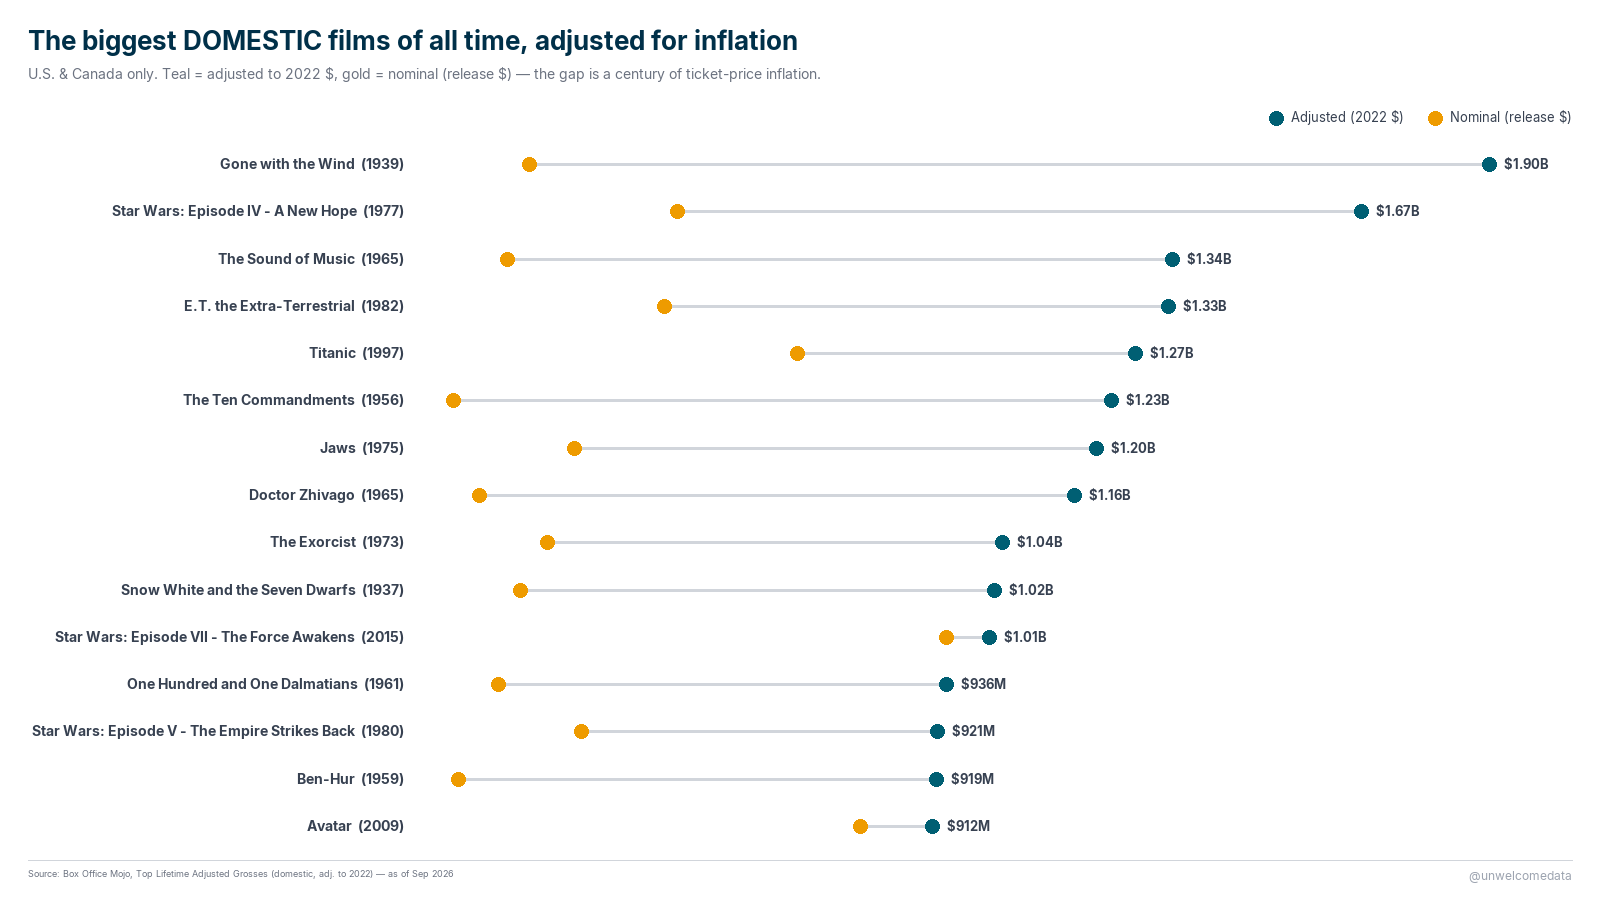
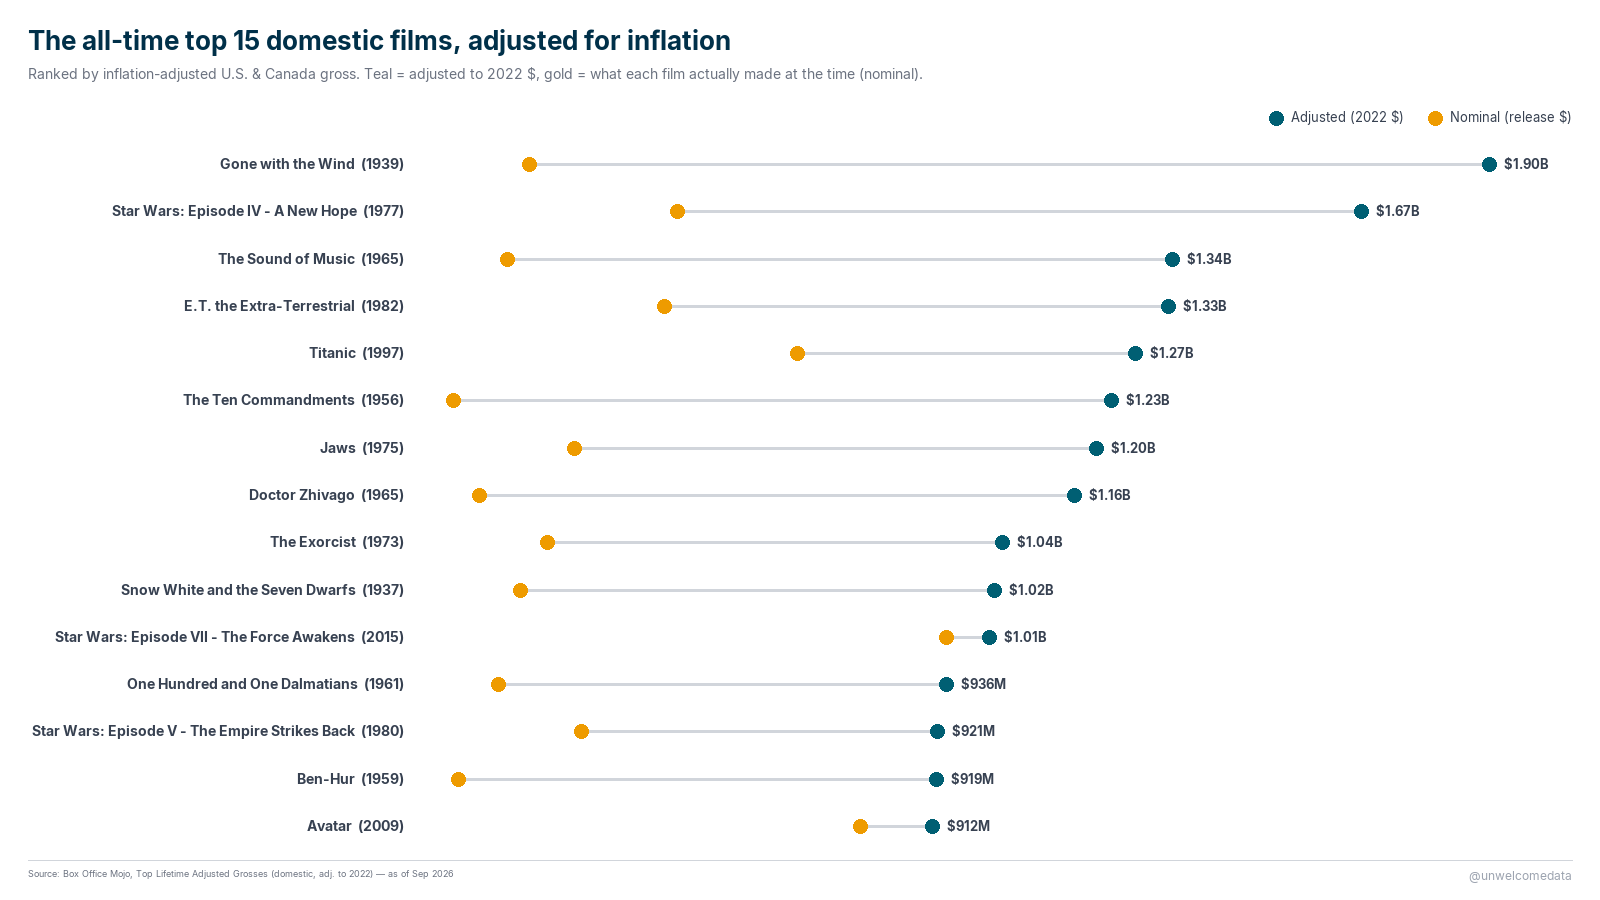
fix: retitle chart A to reflect it's the adjusted-gross ranking, not a 'gap' ranking
Old subtitle ('the gap is a century of inflation') implied the chart was sorted by
the nominal-vs-adjusted gap. It's actually ranked by inflation-adjusted domestic
gross (top 15 all-time). Retitled 'The all-time top 15 domestic films, adjusted
for inflation'; subtitle now says ranked-by-adjusted and frames nominal as context.

Changed region(s): [[0.0, 0.0311, 0.5625, 0.0933]]

diff --git a/scripts/_build_notebooks.py b/scripts/_build_notebooks.py
@@ -453,8 +453,8 @@ viz = [
        "gross (teal). Domestic (U.S. & Canada) only."),
     code("display(lollipop(",
          "    films, category_col='label', value_col='adjusted_gross', value2_col='nominal_gross',",
-         "    value_fmt=money, title='Adjusted vs nominal domestic gross - top 15',",
-         "    subtitle='Teal = adjusted (2022 $), gold = nominal (release $)',",
+         "    value_fmt=money, title='All-time top 15 domestic films, adjusted for inflation',",
+         "    subtitle='Ranked by adjusted (2022 $) US & Canada gross. Teal = adjusted, gold = nominal (release $).',",
          "    dot_color='#005F73', dot2_color='#EE9B00',",
          "    value_label='Adjusted', value2_label='Nominal', img_width=img_w, img_height=img_h,",
          "))"),
@@ -595,8 +595,8 @@ viz_social = [
          "    FROM films_adjusted ORDER BY adjusted_gross DESC LIMIT 15''').df()",
          "dom['label'] = dom['title'] + '  (' + dom['release_year'].astype(str) + ')'",
          "img1 = lollipop(dom, category_col='label', value_col='adjusted_gross', value2_col='nominal_gross',",
-         "    value_fmt=money, title='The biggest DOMESTIC films of all time, adjusted for inflation',",
-         "    subtitle='U.S. & Canada only. Teal = adjusted to 2022 $, gold = nominal (release $) — the gap is a century of ticket-price inflation.',",
+         "    value_fmt=money, title='The all-time top 15 domestic films, adjusted for inflation',",
+         "    subtitle='Ranked by inflation-adjusted U.S. & Canada gross. Teal = adjusted to 2022 $, gold = what each film actually made at the time (nominal).',",
          "    source='Box Office Mojo, Top Lifetime Adjusted Grosses (domestic, adj. to 2022) — as of Sep 2026',",
          "    dot_color='#005F73', dot2_color='#EE9B00',",
          "    value_label='Adjusted (2022 $)', value2_label='Nominal (release $)',",

diff --git a/scripts/make_charts.py b/scripts/make_charts.py
@@ -65,8 +65,8 @@ def main() -> None:
     img1 = lollipop(
         dom, category_col="label", value_col="adjusted_gross", value2_col="nominal_gross",
         value_fmt=money_bil,
-        title="The biggest DOMESTIC films of all time, adjusted for inflation",
-        subtitle="U.S. & Canada only. Teal = adjusted to 2022 $, gold = nominal (release $) — the gap is a century of ticket-price inflation.",
+        title="The all-time top 15 domestic films, adjusted for inflation",
+        subtitle="Ranked by inflation-adjusted U.S. & Canada gross. Teal = adjusted to 2022 $, gold = what each film actually made at the time (nominal).",
         source="Box Office Mojo, Top Lifetime Adjusted Grosses (domestic, adj. to 2022) — as of Sep 2026",
         dot_color="#005F73", dot2_color="#EE9B00",
         value_label="Adjusted (2022 $)", value2_label="Nominal (release $)",
